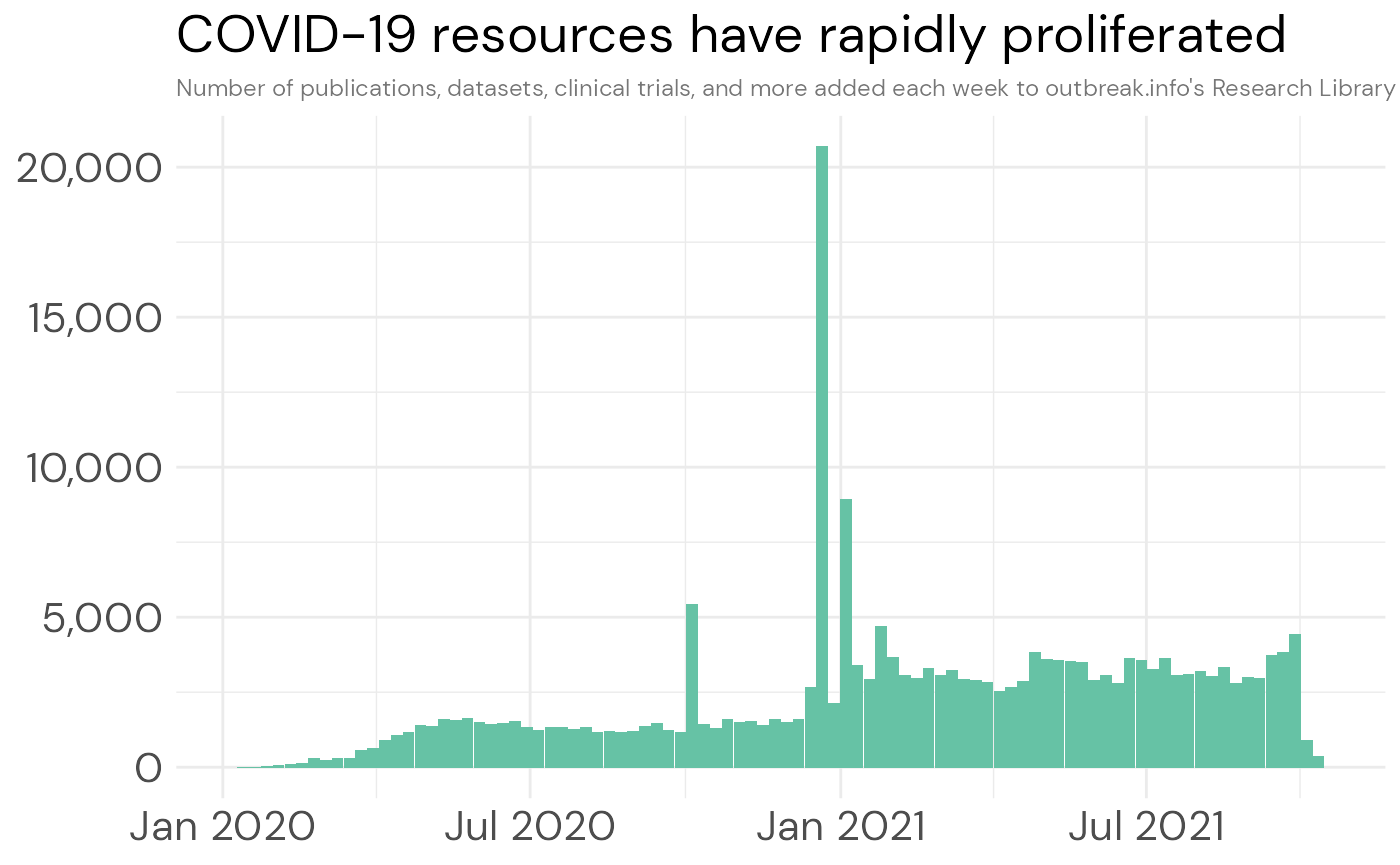
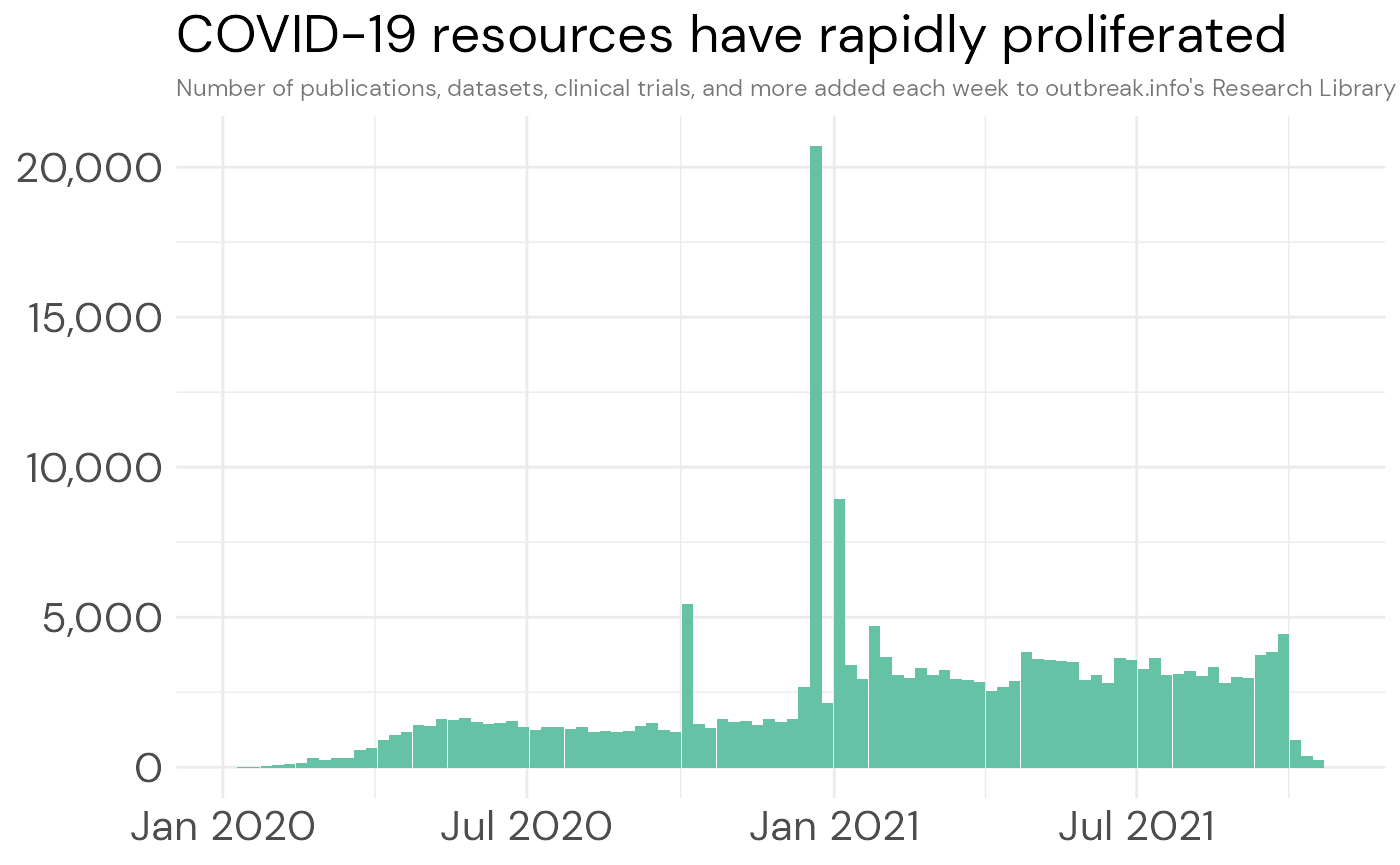
updated resources figure

diff --git a/docs/articles/researchlibrary.html b/docs/articles/researchlibrary.html
@@ -108,7 +108,7 @@
     <div class="page-header toc-ignore">
       <h1 data-toc-skip>Research Library</h1>
             
-            <h4 class="date">2021-10-25</h4>
+            <h4 class="date">2021-10-27</h4>
       
       <small class="dont-index">Source: <a href="https://github.com/outbreak-info/R-outbreak-info/blob/master/vignettes/researchlibrary.Rmd"><code>vignettes/researchlibrary.Rmd</code></a></small>
       <div class="hidden name"><code>researchlibrary.Rmd</code></div>
@@ -120,7 +120,7 @@
 <div id="accessing-the-data-in-outbreak-infos-research-library" class="section level1">
 <h1 class="hasAnchor">
 <a href="#accessing-the-data-in-outbreak-infos-research-library" class="anchor"></a>Accessing the data in outbreak.info’s Research Library</h1>
-<p>Outbreak.info’s Research Library allows you to track the vast amount of research being produced by the community on COVID-19, including publications, clinical trials, datasets, protocols, and more. The metadata for these resources are pulled every day across a series of <a href="https://outbreak.info/sources#resources">data sources</a> and combined and standardized for easy searching across data asset.</p>
+<p>outbreak.info’s Research Library allows you to track the vast amount of research being produced by the community on COVID-19, including publications, clinical trials, datasets, protocols, and more. The metadata for these resources are pulled every day across a series of <a href="https://outbreak.info/sources#resources">data sources</a> and combined and standardized for easy searching across data asset.</p>
 <p>Here, we’ll show how to access and filter these metadata about COVID-19 and SARS-CoV-2 research.</p>
 <div id="before-we-start" class="section level2">
 <h2 class="hasAnchor">
@@ -147,15 +147,15 @@
 <span class="va">resources_by_date</span> <span class="op">=</span> <span class="fu"><a href="../reference/getResourcesData.html">getResourcesData</a></span><span class="op">(</span>query <span class="op">=</span> <span class="st">"date:[2020-01-01 TO *]"</span>, fields <span class="op">=</span> <span class="st">"date"</span>, fetchAll <span class="op">=</span> <span class="cn">TRUE</span><span class="op">)</span>
 
 <span class="co"># roll up the number of resources by week</span>
-<span class="va">resources_by_date</span> <span class="op">=</span> <span class="va">resources_by_date</span> <span class="op">%&gt;%</span> 
+<span class="va">resources_by_date</span> <span class="op">=</span> <span class="va">resources_by_date</span> <span class="op">%&gt;%</span>
   <span class="fu"><a href="https://dplyr.tidyverse.org/reference/mutate.html">mutate</a></span><span class="op">(</span>year <span class="op">=</span> <span class="fu">lubridate</span><span class="fu">::</span><span class="fu"><a href="https://lubridate.tidyverse.org/reference/year.html">year</a></span><span class="op">(</span><span class="va">date</span><span class="op">)</span>,
-         iso_week <span class="op">=</span> <span class="fu">lubridate</span><span class="fu">::</span><span class="fu"><a href="https://lubridate.tidyverse.org/reference/week.html">isoweek</a></span><span class="op">(</span><span class="va">date</span><span class="op">)</span><span class="op">)</span> 
+         iso_week <span class="op">=</span> <span class="fu">lubridate</span><span class="fu">::</span><span class="fu"><a href="https://lubridate.tidyverse.org/reference/week.html">isoweek</a></span><span class="op">(</span><span class="va">date</span><span class="op">)</span><span class="op">)</span>
 
 <span class="co"># count the number of new resources per week.</span>
-<span class="va">resources_per_week</span> <span class="op">=</span> <span class="va">resources_by_date</span> <span class="op">%&gt;%</span> 
-  <span class="fu"><a href="https://dplyr.tidyverse.org/reference/count.html">count</a></span><span class="op">(</span><span class="va">iso_week</span>, <span class="va">year</span><span class="op">)</span> <span class="op">%&gt;%</span> 
+<span class="va">resources_per_week</span> <span class="op">=</span> <span class="va">resources_by_date</span> <span class="op">%&gt;%</span>
+  <span class="fu"><a href="https://dplyr.tidyverse.org/reference/count.html">count</a></span><span class="op">(</span><span class="va">iso_week</span>, <span class="va">year</span><span class="op">)</span> <span class="op">%&gt;%</span>
   <span class="co"># convert from iso week back to a date</span>
-  <span class="fu"><a href="https://dplyr.tidyverse.org/reference/mutate.html">mutate</a></span><span class="op">(</span>iso_date <span class="op">=</span> <span class="fu">lubridate</span><span class="fu">::</span><span class="fu"><a href="https://lubridate.tidyverse.org/reference/parse_date_time.html">parse_date_time</a></span><span class="op">(</span><span class="fu"><a href="https://rdrr.io/r/base/paste.html">paste</a></span><span class="op">(</span><span class="va">year</span>,<span class="va">iso_week</span>, <span class="st">"Mon"</span>, sep<span class="op">=</span><span class="st">"-"</span><span class="op">)</span>, <span class="st">"Y-W-a"</span><span class="op">)</span><span class="op">)</span> 
+  <span class="fu"><a href="https://dplyr.tidyverse.org/reference/mutate.html">mutate</a></span><span class="op">(</span>iso_date <span class="op">=</span> <span class="fu">lubridate</span><span class="fu">::</span><span class="fu"><a href="https://lubridate.tidyverse.org/reference/parse_date_time.html">parse_date_time</a></span><span class="op">(</span><span class="fu"><a href="https://rdrr.io/r/base/paste.html">paste</a></span><span class="op">(</span><span class="va">year</span>,<span class="va">iso_week</span>, <span class="st">"Mon"</span>, sep<span class="op">=</span><span class="st">"-"</span><span class="op">)</span>, <span class="st">"Y-W-a"</span><span class="op">)</span><span class="op">)</span>
 <span class="co">#&gt; Warning in strptime(.enclose(x), .enclose(fmt), tz): (0-based) yday 369 in year</span>
 <span class="co">#&gt; 2020 is invalid</span>
 <span class="co">#&gt; Warning in strptime(.enclose(x), .enclose(fmt), tz): (0-based) yday 367 in year</span>
@@ -179,7 +179,7 @@
 <span class="fu"><a href="https://ggplot2.tidyverse.org/reference/ggplot.html">ggplot</a></span><span class="op">(</span><span class="va">resources_per_week</span>, <span class="fu"><a href="https://ggplot2.tidyverse.org/reference/aes.html">aes</a></span><span class="op">(</span>x <span class="op">=</span> <span class="va">iso_date</span>, y <span class="op">=</span> <span class="va">n</span><span class="op">)</span><span class="op">)</span> <span class="op">+</span>
   <span class="fu"><a href="https://ggplot2.tidyverse.org/reference/geom_bar.html">geom_bar</a></span><span class="op">(</span>fill <span class="op">=</span> <span class="va">fill_color</span>, stat<span class="op">=</span><span class="st">"identity"</span><span class="op">)</span> <span class="op">+</span>
   <span class="fu"><a href="https://ggplot2.tidyverse.org/reference/labs.html">ggtitle</a></span><span class="op">(</span><span class="st">"COVID-19 resources have rapidly proliferated"</span>, subtitle<span class="op">=</span><span class="st">"Number of publications, datasets, clinical trials, and more added each week to outbreak.info's Research Library"</span><span class="op">)</span> <span class="op">+</span>
-  <span class="fu"><a href="https://ggplot2.tidyverse.org/reference/ggtheme.html">theme_minimal</a></span><span class="op">(</span><span class="op">)</span> <span class="op">+</span> 
+  <span class="fu"><a href="https://ggplot2.tidyverse.org/reference/ggtheme.html">theme_minimal</a></span><span class="op">(</span><span class="op">)</span> <span class="op">+</span>
   <span class="fu"><a href="https://ggplot2.tidyverse.org/reference/theme.html">theme</a></span><span class="op">(</span>
     text <span class="op">=</span> <span class="fu"><a href="https://ggplot2.tidyverse.org/reference/element.html">element_text</a></span><span class="op">(</span>family<span class="op">=</span><span class="st">"DM Sans"</span><span class="op">)</span>,
     axis.title <span class="op">=</span> <span class="fu"><a href="https://ggplot2.tidyverse.org/reference/element.html">element_blank</a></span><span class="op">(</span><span class="op">)</span>,
@@ -191,7 +191,7 @@
   <span class="fu"><a href="https://ggplot2.tidyverse.org/reference/scale_date.html">scale_x_datetime</a></span><span class="op">(</span>limits <span class="op">=</span> <span class="fu"><a href="https://rdrr.io/r/base/c.html">c</a></span><span class="op">(</span><span class="fu"><a href="https://rdrr.io/r/base/Extremes.html">min</a></span><span class="op">(</span><span class="va">resources_per_week</span><span class="op">$</span><span class="va">iso_date</span>, na.rm <span class="op">=</span> <span class="cn">T</span><span class="op">)</span>, <span class="fu"><a href="https://rdrr.io/r/base/Extremes.html">max</a></span><span class="op">(</span><span class="va">resources_per_week</span><span class="op">$</span><span class="va">iso_date</span>, na.rm <span class="op">=</span> <span class="cn">T</span><span class="op">)</span><span class="op">)</span>, date_labels <span class="op">=</span> <span class="st">"%b %Y"</span><span class="op">)</span>
 <span class="co">#&gt; Warning: Removed 2 rows containing missing values (position_stack).</span>
 <span class="co">#&gt; Warning: Removed 2 rows containing missing values (geom_bar).</span></code></pre></div>
-<p><img src="researchlibrary_files/figure-html/resources_by_date-1.png" width="700"></p>
+<p><img src="researchlibrary_files/figure-html/resources_by_date-1.png" width="100%"></p>
 </div>
 <div id="count-how-many-resources-there-are-by-type" class="section level2">
 <h2 class="hasAnchor">
@@ -209,7 +209,7 @@
 <tbody>
 <tr class="odd">
 <td align="left">Publication</td>
-<td align="right">200061</td>
+<td align="right">200062</td>
 </tr>
 <tr class="even">
 <td align="left">ClinicalTrial</td>
@@ -217,7 +217,7 @@
 </tr>
 <tr class="odd">
 <td align="left">Dataset</td>
-<td align="right">3865</td>
+<td align="right">3857</td>
 </tr>
 <tr class="even">
 <td align="left">Protocol</td>
@@ -229,11 +229,11 @@
 </tr>
 <tr class="even">
 <td align="left">SoftwareSourceCode</td>
-<td align="right">196</td>
+<td align="right">193</td>
 </tr>
 <tr class="odd">
 <td align="left">CreativeWork</td>
-<td align="right">155</td>
+<td align="right">153</td>
 </tr>
 <tr class="even">
 <td align="left">PresentationDigitalDocument</td>
@@ -261,7 +261,7 @@
 </tr>
 <tr class="even">
 <td align="left">NA</td>
-<td align="right">8</td>
+<td align="right">9</td>
 </tr>
 <tr class="odd">
 <td align="left">Report</td>
@@ -306,7 +306,7 @@
 <tbody>
 <tr class="odd">
 <td align="left">Publication</td>
-<td align="right">200061</td>
+<td align="right">200062</td>
 </tr>
 <tr class="even">
 <td align="left">ClinicalTrial</td>
@@ -314,7 +314,7 @@
 </tr>
 <tr class="odd">
 <td align="left">Dataset</td>
-<td align="right">3865</td>
+<td align="right">3857</td>
 </tr>
 <tr class="even">
 <td align="left">Protocol</td>
@@ -326,11 +326,11 @@
 </tr>
 <tr class="even">
 <td align="left">SoftwareSourceCode</td>
-<td align="right">196</td>
+<td align="right">193</td>
 </tr>
 <tr class="odd">
 <td align="left">CreativeWork</td>
-<td align="right">155</td>
+<td align="right">153</td>
 </tr>
 <tr class="even">
 <td align="left">PresentationDigitalDocument</td>
@@ -389,42 +389,56 @@
 <div class="sourceCode" id="cb5"><pre class="downlit sourceCode r">
 <code class="sourceCode R"><span class="va">getSources</span> <span class="op">=</span> <span class="kw">function</span><span class="op">(</span><span class="va">type</span><span class="op">)</span> <span class="op">{</span>
   <span class="va">facets</span> <span class="op">=</span> <span class="fu"><a href="../reference/getResourcesData.html">getResourcesData</a></span><span class="op">(</span>types<span class="op">=</span><span class="fu"><a href="https://rdrr.io/r/base/c.html">c</a></span><span class="op">(</span><span class="va">type</span><span class="op">)</span>, facets<span class="op">=</span><span class="st">"curatedBy.name"</span>, facet_size <span class="op">=</span> <span class="fl">50</span>, size <span class="op">=</span> <span class="fl">0</span><span class="op">)</span>
-  
-  <span class="va">terms</span> <span class="op">=</span> <span class="va">facets</span><span class="op">$</span><span class="va">facets</span><span class="op">$</span><span class="va">curatedBy.name</span><span class="op">$</span><span class="va">terms</span> <span class="op">%&gt;%</span> 
+
+  <span class="va">terms</span> <span class="op">=</span> <span class="va">facets</span><span class="op">$</span><span class="va">facets</span><span class="op">$</span><span class="va">curatedBy.name</span><span class="op">$</span><span class="va">terms</span> <span class="op">%&gt;%</span>
     <span class="fu"><a href="https://dplyr.tidyverse.org/reference/mutate.html">mutate</a></span><span class="op">(</span>type <span class="op">=</span> <span class="va">type</span><span class="op">)</span>
 <span class="op">}</span>
 
+<span class="co"># Map over each of the types to get the source counts for each</span>
 <span class="va">resources_by_source</span> <span class="op">=</span> <span class="fu"><a href="https://purrr.tidyverse.org/reference/map.html">map_df</a></span><span class="op">(</span><span class="va">resources_by_type</span> <span class="op">%&gt;%</span> <span class="fu"><a href="https://dplyr.tidyverse.org/reference/pull.html">pull</a></span><span class="op">(</span><span class="va">term</span><span class="op">)</span>, <span class="va">getSources</span><span class="op">)</span>
 
+<span class="co"># Get the resources by source, to order the totals</span>
 <span class="va">resources_by_curator</span> <span class="op">=</span>  <span class="fu"><a href="../reference/getResourcesData.html">getResourcesData</a></span><span class="op">(</span>facets<span class="op">=</span><span class="st">"curatedBy.name"</span>, facet_size <span class="op">=</span> <span class="fl">50</span>, size <span class="op">=</span> <span class="fl">0</span><span class="op">)</span>
 <span class="va">resources_by_curator</span> <span class="op">=</span> <span class="va">resources_by_curator</span><span class="op">$</span><span class="va">facets</span><span class="op">$</span><span class="va">curatedBy.name</span><span class="op">$</span><span class="va">terms</span><span class="op">$</span><span class="va">term</span>
 
+<span class="co"># Group together fields into "other" category</span>
+<span class="va">resources_by_source_grouped</span> <span class="op">=</span> <span class="va">resources_by_source</span> <span class="op">%&gt;%</span> 
+  <span class="fu"><a href="https://dplyr.tidyverse.org/reference/mutate.html">mutate</a></span><span class="op">(</span>type_grouped <span class="op">=</span> <span class="fu"><a href="https://rdrr.io/r/base/ifelse.html">ifelse</a></span><span class="op">(</span><span class="va">type</span> <span class="op">%in%</span> <span class="fu"><a href="https://rdrr.io/r/base/c.html">c</a></span><span class="op">(</span><span class="st">"Publication"</span>, <span class="st">"ClinicalTrial"</span>, <span class="st">"Dataset"</span>, <span class="st">"Protocol"</span><span class="op">)</span>,
+                               <span class="va">type</span>, <span class="st">"Other"</span><span class="op">)</span><span class="op">)</span> <span class="op">%&gt;%</span> 
+  <span class="fu"><a href="https://dplyr.tidyverse.org/reference/group_by.html">group_by</a></span><span class="op">(</span><span class="va">type_grouped</span>, <span class="va">term</span><span class="op">)</span> <span class="op">%&gt;%</span> 
+  <span class="fu"><a href="https://dplyr.tidyverse.org/reference/summarise.html">summarise</a></span><span class="op">(</span>count <span class="op">=</span> <span class="fu"><a href="https://rdrr.io/r/base/sum.html">sum</a></span><span class="op">(</span><span class="va">count</span><span class="op">)</span><span class="op">)</span>
+<span class="co">#&gt; `summarise()` has grouped output by 'type_grouped'. You can override using the `.groups` argument.</span>
+
+
 <span class="co"># Set the levels, so the bar plot sorts by order.</span>
-<span class="va">resources_by_source</span><span class="op">$</span><span class="va">type</span> <span class="op">=</span> <span class="fu"><a href="https://rdrr.io/r/base/factor.html">factor</a></span><span class="op">(</span><span class="va">resources_by_source</span><span class="op">$</span><span class="va">type</span>, <span class="va">resources_by_type</span> <span class="op">%&gt;%</span> <span class="fu"><a href="https://dplyr.tidyverse.org/reference/pull.html">pull</a></span><span class="op">(</span><span class="va">term</span><span class="op">)</span><span class="op">)</span>
-<span class="va">resources_by_source</span><span class="op">$</span><span class="va">term</span> <span class="op">=</span> <span class="fu"><a href="https://rdrr.io/r/base/factor.html">factor</a></span><span class="op">(</span><span class="va">resources_by_source</span><span class="op">$</span><span class="va">term</span>, <span class="va">resources_by_curator</span> <span class="op">%&gt;%</span> <span class="fu"><a href="https://rdrr.io/r/base/rev.html">rev</a></span><span class="op">(</span><span class="op">)</span><span class="op">)</span>
+<span class="va">types</span> <span class="op">=</span> <span class="fu"><a href="https://rdrr.io/r/base/c.html">c</a></span><span class="op">(</span><span class="st">"Other"</span>, <span class="va">resources_by_type</span> <span class="op">%&gt;%</span> <span class="fu"><a href="https://dplyr.tidyverse.org/reference/pull.html">pull</a></span><span class="op">(</span><span class="va">term</span><span class="op">)</span> <span class="op">%&gt;%</span> <span class="fu"><a href="https://rdrr.io/r/base/rev.html">rev</a></span><span class="op">(</span><span class="op">)</span><span class="op">)</span>
+
+<span class="va">resources_by_source_grouped</span><span class="op">$</span><span class="va">type_grouped</span> <span class="op">=</span> <span class="fu"><a href="https://rdrr.io/r/base/factor.html">factor</a></span><span class="op">(</span><span class="va">resources_by_source_grouped</span><span class="op">$</span><span class="va">type_grouped</span>, <span class="va">types</span><span class="op">)</span>
+<span class="va">resources_by_source_grouped</span><span class="op">$</span><span class="va">term</span> <span class="op">=</span> <span class="fu"><a href="https://rdrr.io/r/base/factor.html">factor</a></span><span class="op">(</span><span class="va">resources_by_source_grouped</span><span class="op">$</span><span class="va">term</span>, <span class="va">resources_by_curator</span> <span class="op">%&gt;%</span> <span class="fu"><a href="https://rdrr.io/r/base/rev.html">rev</a></span><span class="op">(</span><span class="op">)</span><span class="op">)</span>
 
 <span class="va">COLORPALETTE</span> <span class="op">=</span> <span class="fu"><a href="https://rdrr.io/r/base/c.html">c</a></span><span class="op">(</span><span class="st">"#4E79A7"</span>, <span class="st">"#f28e2b"</span>, <span class="st">"#59a14f"</span>,<span class="st">"#e15759"</span>, <span class="st">"#499894"</span>,<span class="st">"#B6992D"</span>,  <span class="st">"#D37295"</span>, <span class="st">"#B07AA1"</span>,<span class="st">"#9D7660"</span>, <span class="st">"#bcbd22"</span>,
                  <span class="st">"#aecBe8"</span>, <span class="st">"#FFBE7D"</span>,  <span class="st">"#8CD17D"</span>, <span class="st">"#FF9D9A"</span>,  <span class="st">"#86BCB6"</span>, <span class="st">"#F1CE63"</span>,<span class="st">"#FABFD2"</span>,  <span class="st">"#D4A6C8"</span>, <span class="st">"#D7B5A6"</span>,  <span class="st">"#79706E"</span><span class="op">)</span>
 
-<span class="fu"><a href="https://ggplot2.tidyverse.org/reference/ggplot.html">ggplot</a></span><span class="op">(</span><span class="va">resources_by_source</span>, <span class="fu"><a href="https://ggplot2.tidyverse.org/reference/aes.html">aes</a></span><span class="op">(</span>x <span class="op">=</span> <span class="va">type</span>, y <span class="op">=</span> <span class="va">count</span>, fill <span class="op">=</span> <span class="va">term</span><span class="op">)</span><span class="op">)</span> <span class="op">+</span> 
-  <span class="fu"><a href="https://ggplot2.tidyverse.org/reference/geom_bar.html">geom_bar</a></span><span class="op">(</span>stat <span class="op">=</span> <span class="st">"identity"</span><span class="op">)</span> <span class="op">+</span>
-  <span class="fu"><a href="https://ggplot2.tidyverse.org/reference/coord_flip.html">coord_flip</a></span><span class="op">(</span><span class="op">)</span> <span class="op">+</span>
-  <span class="fu"><a href="https://ggplot2.tidyverse.org/reference/scale_continuous.html">scale_y_continuous</a></span><span class="op">(</span>labels<span class="op">=</span><span class="fu">scales</span><span class="fu">::</span><span class="va"><a href="https://scales.r-lib.org/reference/label_number.html">comma</a></span><span class="op">)</span> <span class="op">+</span>
+<span class="fu"><a href="https://rdrr.io/r/base/names.html">names</a></span><span class="op">(</span><span class="va">COLORPALETTE</span><span class="op">)</span> <span class="op">=</span> <span class="va">resources_by_curator</span>
+
+
+<span class="co"># Plot the results -- full scale to encapsulate the LitCovid responses</span>
+<span class="fu"><a href="https://ggplot2.tidyverse.org/reference/ggplot.html">ggplot</a></span><span class="op">(</span><span class="va">resources_by_source_grouped</span> <span class="op">%&gt;%</span> <span class="fu"><a href="https://dplyr.tidyverse.org/reference/filter.html">filter</a></span><span class="op">(</span><span class="va">type_grouped</span> <span class="op">!=</span> <span class="st">"Other"</span><span class="op">)</span>, 
+       <span class="fu"><a href="https://ggplot2.tidyverse.org/reference/aes.html">aes</a></span><span class="op">(</span>x <span class="op">=</span> <span class="va">type_grouped</span>, y <span class="op">=</span> <span class="va">count</span>, fill <span class="op">=</span> <span class="va">term</span>, colour <span class="op">=</span> <span class="va">term</span><span class="op">)</span><span class="op">)</span> <span class="op">+</span>
+  <span class="fu"><a href="https://ggplot2.tidyverse.org/reference/geom_bar.html">geom_col</a></span><span class="op">(</span>position <span class="op">=</span> <span class="fu"><a href="https://ggplot2.tidyverse.org/reference/position_dodge.html">position_dodge2</a></span><span class="op">(</span>width <span class="op">=</span> <span class="fl">0.9</span>, preserve <span class="op">=</span> <span class="st">"single"</span>, padding <span class="op">=</span> <span class="fl">0.2</span><span class="op">)</span>, width <span class="op">=</span> <span class="fl">1</span><span class="op">)</span> <span class="op">+</span>
+  <span class="fu"><a href="https://ggplot2.tidyverse.org/reference/geom_text.html">geom_text</a></span><span class="op">(</span><span class="fu"><a href="https://ggplot2.tidyverse.org/reference/aes.html">aes</a></span><span class="op">(</span>y <span class="op">=</span> <span class="va">count</span> <span class="op">+</span> <span class="fl">1500</span>, label <span class="op">=</span> <span class="va">term</span><span class="op">)</span>, position <span class="op">=</span> <span class="fu"><a href="https://ggplot2.tidyverse.org/reference/position_dodge.html">position_dodge2</a></span><span class="op">(</span>width <span class="op">=</span> <span class="fl">0.9</span>, preserve <span class="op">=</span> <span class="st">"single"</span>, padding <span class="op">=</span> <span class="fl">0.2</span><span class="op">)</span>,
+            size <span class="op">=</span> <span class="fl">3</span>, hjust <span class="op">=</span> <span class="fl">0</span><span class="op">)</span> <span class="op">+</span>
+  <span class="fu"><a href="https://ggplot2.tidyverse.org/reference/scale_continuous.html">scale_y_continuous</a></span><span class="op">(</span>labels<span class="op">=</span><span class="fu">scales</span><span class="fu">::</span><span class="va"><a href="https://scales.r-lib.org/reference/label_number.html">comma</a></span>, expand <span class="op">=</span> <span class="fu"><a href="https://rdrr.io/r/base/c.html">c</a></span><span class="op">(</span><span class="fl">0</span>, <span class="fl">100</span>, <span class="fl">0</span>, <span class="fl">20000</span><span class="op">)</span><span class="op">)</span> <span class="op">+</span>
+  <span class="fu"><a href="https://ggplot2.tidyverse.org/reference/scale_manual.html">scale_colour_manual</a></span><span class="op">(</span>values <span class="op">=</span> <span class="va">COLORPALETTE</span><span class="op">)</span> <span class="op">+</span>
   <span class="fu"><a href="https://ggplot2.tidyverse.org/reference/scale_manual.html">scale_fill_manual</a></span><span class="op">(</span>values <span class="op">=</span> <span class="va">COLORPALETTE</span><span class="op">)</span> <span class="op">+</span>
-  <span class="fu"><a href="https://ggplot2.tidyverse.org/reference/ggtheme.html">theme_minimal</a></span><span class="op">(</span><span class="op">)</span> <span class="op">+</span>
-  <span class="fu"><a href="https://ggplot2.tidyverse.org/reference/theme.html">theme</a></span><span class="op">(</span>legend.position <span class="op">=</span> <span class="st">"bottom"</span><span class="op">)</span> </code></pre></div>
-<p><img src="researchlibrary_files/figure-html/unnamed-chunk-1-1.png" width="700"></p>
-<div class="sourceCode" id="cb6"><pre class="downlit sourceCode r">
-<code class="sourceCode R">
-<span class="fu"><a href="https://ggplot2.tidyverse.org/reference/ggplot.html">ggplot</a></span><span class="op">(</span><span class="va">resources_by_source</span>, <span class="fu"><a href="https://ggplot2.tidyverse.org/reference/aes.html">aes</a></span><span class="op">(</span>x <span class="op">=</span> <span class="va">term</span>, y <span class="op">=</span> <span class="va">count</span>, fill <span class="op">=</span> <span class="va">term</span><span class="op">)</span><span class="op">)</span> <span class="op">+</span> 
-  <span class="fu"><a href="https://ggplot2.tidyverse.org/reference/geom_bar.html">geom_bar</a></span><span class="op">(</span>stat <span class="op">=</span> <span class="st">"identity"</span><span class="op">)</span> <span class="op">+</span>
   <span class="fu"><a href="https://ggplot2.tidyverse.org/reference/coord_flip.html">coord_flip</a></span><span class="op">(</span><span class="op">)</span> <span class="op">+</span>
-  <span class="fu"><a href="https://ggplot2.tidyverse.org/reference/scale_continuous.html">scale_y_continuous</a></span><span class="op">(</span>labels<span class="op">=</span><span class="fu">scales</span><span class="fu">::</span><span class="va"><a href="https://scales.r-lib.org/reference/label_number.html">comma</a></span><span class="op">)</span> <span class="op">+</span>
-  <span class="fu"><a href="https://ggplot2.tidyverse.org/reference/scale_manual.html">scale_fill_manual</a></span><span class="op">(</span>values <span class="op">=</span> <span class="va">COLORPALETTE</span><span class="op">)</span> <span class="op">+</span>
+  <span class="fu"><a href="https://ggplot2.tidyverse.org/reference/labs.html">ggtitle</a></span><span class="op">(</span><span class="st">"Resources in outbreak.info by resource type and source"</span>, subtitle <span class="op">=</span> <span class="fu"><a href="https://rdrr.io/r/base/paste.html">paste0</a></span><span class="op">(</span><span class="st">"As of "</span>, <span class="fu"><a href="https://rdrr.io/r/base/format.html">format</a></span><span class="op">(</span><span class="fu"><a href="https://rdrr.io/r/base/Sys.time.html">Sys.time</a></span><span class="op">(</span><span class="op">)</span>, <span class="st">"%d %B %Y"</span><span class="op">)</span><span class="op">)</span><span class="op">)</span> <span class="op">+</span>
   <span class="fu"><a href="https://ggplot2.tidyverse.org/reference/ggtheme.html">theme_minimal</a></span><span class="op">(</span><span class="op">)</span> <span class="op">+</span> 
-  <span class="fu"><a href="https://ggplot2.tidyverse.org/reference/facet_wrap.html">facet_wrap</a></span><span class="op">(</span><span class="op">~</span><span class="va">type</span>, scales<span class="op">=</span><span class="st">"free_x"</span><span class="op">)</span> <span class="op">+</span>
-  <span class="fu"><a href="https://ggplot2.tidyverse.org/reference/theme.html">theme</a></span><span class="op">(</span>legend.position <span class="op">=</span> <span class="st">"bottom"</span><span class="op">)</span> </code></pre></div>
-<p><img src="researchlibrary_files/figure-html/unnamed-chunk-1-2.png" width="700"></p>
+  <span class="fu"><a href="https://ggplot2.tidyverse.org/reference/theme.html">theme</a></span><span class="op">(</span>legend.position <span class="op">=</span> <span class="st">"none"</span>, panel.grid.major.y <span class="op">=</span> <span class="fu"><a href="https://ggplot2.tidyverse.org/reference/element.html">element_blank</a></span><span class="op">(</span><span class="op">)</span>, axis.title <span class="op">=</span> <span class="fu"><a href="https://ggplot2.tidyverse.org/reference/element.html">element_blank</a></span><span class="op">(</span><span class="op">)</span>,
+        axis.text <span class="op">=</span> <span class="fu"><a href="https://ggplot2.tidyverse.org/reference/element.html">element_text</a></span><span class="op">(</span>size <span class="op">=</span> <span class="fl">14</span><span class="op">)</span>,
+        plot.title <span class="op">=</span> <span class="fu"><a href="https://ggplot2.tidyverse.org/reference/element.html">element_text</a></span><span class="op">(</span>size <span class="op">=</span> <span class="fl">16</span><span class="op">)</span>,
+        plot.subtitle <span class="op">=</span> <span class="fu"><a href="https://ggplot2.tidyverse.org/reference/element.html">element_text</a></span><span class="op">(</span>colour<span class="op">=</span><span class="st">"#777777"</span>, size <span class="op">=</span> <span class="fl">10</span><span class="op">)</span><span class="op">)</span></code></pre></div>
+<p><img src="researchlibrary_files/figure-html/resources_by_type_source-1.png" width="100%"></p>
 </div>
 <div id="some-notes-on-constructing-queries" class="section level2">
 <h2 class="hasAnchor">
@@ -434,7 +448,7 @@
 <h3 class="hasAnchor">
 <a href="#general-queries" class="anchor"></a>General queries</h3>
 <p>This will search for any use of the term within all the metadata, including its name, description, authors, etc. You can also combine terms using <code>AND</code> and/or <code>OR</code>. Note that spaces, dashes, and other punctuation are automatically treated as <code>OR</code> combinations. Adding quotes will search for that exact term. <strong>Note that all searches are case insensitive, so looking for “Pfizer” or “pfizer” will give you the same results.</strong></p>
-<div class="sourceCode" id="cb7"><pre class="downlit sourceCode r">
+<div class="sourceCode" id="cb6"><pre class="downlit sourceCode r">
 <code class="sourceCode R"><span class="co"># Basic query: look for anything that mentions "Pfizer"</span>
 <span class="va">query1</span> <span class="op">=</span> <span class="fu"><a href="../reference/getResourcesData.html">getResourcesData</a></span><span class="op">(</span>query <span class="op">=</span> <span class="st">"Pfizer"</span>, fetchAll <span class="op">=</span> <span class="cn">TRUE</span><span class="op">)</span>
 <span class="fu"><a href="https://rdrr.io/r/base/print.html">print</a></span><span class="op">(</span><span class="fu"><a href="https://rdrr.io/r/base/paste.html">paste0</a></span><span class="op">(</span><span class="st">"There are "</span>, <span class="va">query1</span> <span class="op">%&gt;%</span> <span class="fu"><a href="https://rdrr.io/r/base/nrow.html">nrow</a></span><span class="op">(</span><span class="op">)</span> <span class="op">%&gt;%</span> <span class="fu"><a href="https://rdrr.io/r/base/format.html">format</a></span><span class="op">(</span>big.mark<span class="op">=</span><span class="st">","</span><span class="op">)</span>,<span class="st">" resources containing the term 'Pfizer'"</span><span class="op">)</span><span class="op">)</span>
@@ -481,7 +495,7 @@
 <li>
 <code>facet_size</code>: how many results to return in the facets. By default, only the top 10 most frequently observed options will be listed for a given field.</li>
 </ul>
-<div class="sourceCode" id="cb8"><pre class="downlit sourceCode r">
+<div class="sourceCode" id="cb7"><pre class="downlit sourceCode r">
 <code class="sourceCode R"><span class="co"># Return only the clinical trials on boosters</span>
 <span class="va">query6</span> <span class="op">=</span> <span class="fu"><a href="../reference/getResourcesData.html">getResourcesData</a></span><span class="op">(</span>query <span class="op">=</span> <span class="st">"booster"</span>, types<span class="op">=</span><span class="fu"><a href="https://rdrr.io/r/base/c.html">c</a></span><span class="op">(</span><span class="st">"ClinicalTrial"</span><span class="op">)</span>, fetchAll <span class="op">=</span> <span class="cn">TRUE</span><span class="op">)</span>
 
@@ -552,7 +566,7 @@
 <h3 class="hasAnchor">
 <a href="#using-wildcards" class="anchor"></a>Using wildcards</h3>
 <p>Sometimes you only want to search for part of a phrase. For instance, let’s say you wanted to look for resources that have some information on any mutation occurring at position 484 in the spike protein. You can use the <code><a href="https://rdrr.io/r/base/Arithmetic.html">*</a></code> wildcard to look for that term.</p>
-<div class="sourceCode" id="cb9"><pre class="downlit sourceCode r">
+<div class="sourceCode" id="cb8"><pre class="downlit sourceCode r">
 <code class="sourceCode R"><span class="va">query9</span> <span class="op">=</span> <span class="fu"><a href="../reference/getResourcesData.html">getResourcesData</a></span><span class="op">(</span>query <span class="op">=</span> <span class="st">"E484*"</span>, fetchAll <span class="op">=</span> <span class="cn">TRUE</span><span class="op">)</span>
 
 <span class="fu"><a href="https://rdrr.io/r/base/print.html">print</a></span><span class="op">(</span><span class="fu"><a href="https://rdrr.io/r/base/paste.html">paste0</a></span><span class="op">(</span><span class="st">"There are "</span>, <span class="va">query9</span> <span class="op">%&gt;%</span> <span class="fu"><a href="https://rdrr.io/r/base/nrow.html">nrow</a></span><span class="op">(</span><span class="op">)</span> <span class="op">%&gt;%</span> <span class="fu"><a href="https://rdrr.io/r/base/format.html">format</a></span><span class="op">(</span>big.mark<span class="op">=</span><span class="st">","</span><span class="op">)</span>,<span class="st">" resources mentioning a mutation at position E484."</span><span class="op">)</span><span class="op">)</span>
@@ -567,7 +581,7 @@
 <h3 class="hasAnchor">
 <a href="#searching-specific-terms" class="anchor"></a>Searching specific terms</h3>
 <p>So far, we’ve looked at searches that match any field (variable) within the resource. We might, however, want to look within a particular field rather than searching across everything. Note that nested objects can be queried using <code>.</code>.</p>
-<div class="sourceCode" id="cb10"><pre class="downlit sourceCode r">
+<div class="sourceCode" id="cb9"><pre class="downlit sourceCode r">
 <code class="sourceCode R"><span class="co"># find all publications in Nature</span>
 <span class="va">query10</span> <span class="op">=</span> <span class="fu"><a href="../reference/getResourcesData.html">getResourcesData</a></span><span class="op">(</span>query <span class="op">=</span> <span class="st">"journalName:Nature"</span>, fetchAll <span class="op">=</span> <span class="cn">TRUE</span><span class="op">)</span>
 
@@ -584,7 +598,7 @@
 <h3 class="hasAnchor">
 <a href="#finding-records-where-a-term-exists" class="anchor"></a>Finding records where a term exists</h3>
 <p>You might want to know whether or not a field (variable) is empty or populated with something. For instance, we can find all the publications which have some sort of correction associated with them, which could include a retraction or commentary. This is specified by the query parameter <code>_exists_</code></p>
-<div class="sourceCode" id="cb11"><pre class="downlit sourceCode r">
+<div class="sourceCode" id="cb10"><pre class="downlit sourceCode r">
 <code class="sourceCode R"><span class="va">query12</span> <span class="op">=</span> <span class="fu"><a href="../reference/getResourcesData.html">getResourcesData</a></span><span class="op">(</span>query <span class="op">=</span> <span class="st">"_exists_:correction"</span>, types <span class="op">=</span> <span class="fu"><a href="https://rdrr.io/r/base/c.html">c</a></span><span class="op">(</span><span class="st">"Publication"</span><span class="op">)</span>, size <span class="op">=</span> <span class="fl">10</span>, facets <span class="op">=</span> <span class="st">"correction.correctionType"</span>, facet_size <span class="op">=</span> <span class="fl">20</span><span class="op">)</span>
 
 <span class="fu"><a href="https://rdrr.io/r/base/print.html">print</a></span><span class="op">(</span><span class="fu"><a href="https://rdrr.io/r/base/paste.html">paste0</a></span><span class="op">(</span><span class="st">"There are "</span>, <span class="va">query12</span><span class="op">$</span><span class="va">total</span> <span class="op">%&gt;%</span> <span class="fu"><a href="https://rdrr.io/r/base/format.html">format</a></span><span class="op">(</span>big.mark<span class="op">=</span><span class="st">","</span><span class="op">)</span>,<span class="st">" publications which have been corrected. Here are the correction types:"</span><span class="op">)</span><span class="op">)</span>
@@ -648,7 +662,7 @@
 <h3 class="hasAnchor">
 <a href="#range-searching-dates" class="anchor"></a>Range searching: dates</h3>
 <p>Numeric values like dates can be searched for a specific value, or a range of values. Let’s find the latest research on cytokine storms. With range queries, values in square brackets include those values, like <code>[2020-01-01 TO 2020-12-31]</code> (everything in 2020), curly braces <em>exclude</em> the value on the end, and <code><a href="https://rdrr.io/r/base/Arithmetic.html">*</a></code> can be added to specify before a date or after a date.</p>
-<div class="sourceCode" id="cb12"><pre class="downlit sourceCode r">
+<div class="sourceCode" id="cb11"><pre class="downlit sourceCode r">
 <code class="sourceCode R"><span class="co"># Find all resources on cytokine storms</span>
 <span class="va">query13</span> <span class="op">=</span> <span class="fu"><a href="../reference/getResourcesData.html">getResourcesData</a></span><span class="op">(</span>query <span class="op">=</span> <span class="st">'"cytokine storm"'</span>, fetchAll <span class="op">=</span> <span class="cn">TRUE</span><span class="op">)</span>
 
